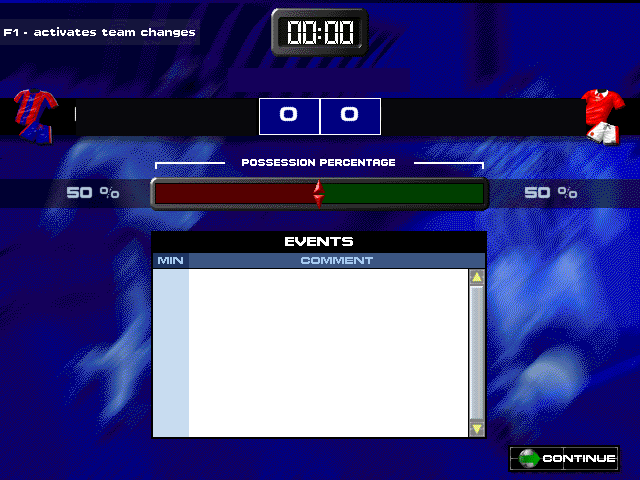
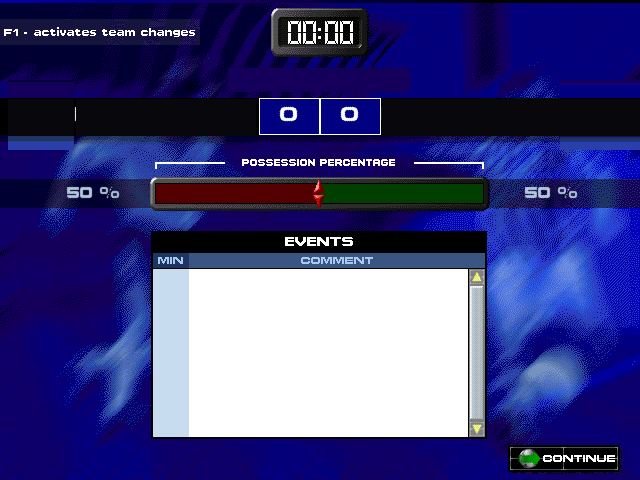
BRIEF fixes: feed geometry, live possession, kit blank+redraw (charter #7)
#7a Feed truncation: the EVENTS draw rect was x312..470 (right third only), so a
goal line clipped its club ("Goal by Salako" -> "Goal by Milose"). Corrected to the
real panel x153..467 (MIN col right-aligned x190, COMMENT left x199, clip to x467);
goal text -> pure red (frame 67). Full "Goal by <scorer> (<club>)" now fits.

#7b Possession: the byte-exact stat engine already accumulates the real POSS counters
(Pm98StatMatch 0x64/0x804, FUN_00450510) -- it was a documented "gap" only because
they were never surfaced. Added Pm98StatMatch.possession(), threaded [home,away]
through MatchSim -> Career -> Main -> MatchScreen. The BRIEF bar now draws the real
split (home/(home+away)), eased 50/50->final over the clock, with the diamond pointer
and live "NN %" labels (baked "50 %" erased by the same per-row median blank). Legacy
path (no counters) stays the honest neutral 50/50.

#7c Kits: the BRIEF chrome had frame-073's kits BAKED IN and un-blanked, so the wrong
club's kit showed around the redrawn one (the "Villa red" parity bug). Blanked both
kit regions in the bake (build_match_flow + inherited by brief_ft/brief_running via
build_prematch), and sized the screen's escudo redraw to the frame-64 bounds
(scale 1.32, anchor y57). Villa claret home + Bolton white away now render correctly.

Verified by GL render vs parity orig/64+67 (app/tests/shot_brief_verify.gd) +
test_match_screen / matchsim / commentary / career all green. Rich shot/save feed
[…]

Changed region(s): [[0.0, 0.1562, 0.125, 0.3125], [0.875, 0.1562, 1.0, 0.3125]]

diff --git a/tools/re/build_match_flow_chrome_from_frames.py b/tools/re/build_match_flow_chrome_from_frames.py
@@ -370,6 +370,17 @@ def _bake_brief() -> dict:
     # clear the "KICK OFF" half/state label (dynamic, below the clock) to the blue bg
     bg = np.median(f[BR_STATE_Y[0]:BR_STATE_Y[1], 200:236].reshape(-1, 3), axis=0).astype("uint8")
     a[BR_STATE_Y[0]:BR_STATE_Y[1], 228:410] = bg
+    # clear the frame-073 KITS (dynamic per match): the screen redraws the fixture's own
+    # escudos, so the baked home/away kits MUST go -- else the wrong club's kit shows
+    # around the redrawn one (the "Villa red" parity bug, orig/64 vs app). Reconstruct
+    # the blue chrome above/below + the black scoreband beneath, per side from an adjacent
+    # glyph-free span (same per-row median technique as the possession/stadium blanks).
+    # generous bboxes: the frame-073 kits run x8..72 / x560..640, y89..149 (wider than
+    # the BR_KIT_* label bboxes), so cover their full extent or a red sliver survives.
+    for kx0, kx1, sx0, sx1 in [(8, 74, 90, 150), (560, 640, 480, 556)]:
+        _rowmed(a, f, 80, BR_BAND_Y[0], kx0, kx1, sx0, sx1)     # blue chrome above band
+        a[BR_BAND_Y[0]:BR_BAND_Y[1], kx0:kx1] = black           # black scoreband
+        _rowmed(a, f, BR_BAND_Y[1], 150, kx0, kx1, sx0, sx1)    # blue chrome below band
     save(a, "brief.png")
     return {
         "binding_frame": F_BRIEF.name,

diff --git a/tools/re/build_prematch_roll_from_frames.py b/tools/re/build_prematch_roll_from_frames.py
@@ -361,7 +361,7 @@ def main() -> None:
     diff = np.abs(ftimg - ft).sum(axis=2) > 40
     data_zones = [
         (258, 18, 114, 82),  # clock LCD + digits
-        (0, 60, 640, 80),  # state label + scoreline band + kits (y60..139)
+        (0, 60, 640, 92),  # state label + scoreline band + kits (y60..151, kits run to y149)
         (14, 180, 612, 30),  # possession row (pcts + bar arrow)
         (150, 230, 340, 210),  # events panel (header+body+scroll)
         (0, 0, 210, 16),  # F1 banner top-left antialias fringe

diff --git a/docs/re/match_flow_re.md b/docs/re/match_flow_re.md
@@ -43,10 +43,17 @@ only the dynamic club NAMES + the state label cleared (`brief.png`). The screen 
 
 - **Clock** LCD box x258..372 y30..100 (digit over-painted; proman18 approximates the
   original 7-seg face — GAP), **half/state label** below (KICK OFF / FIRST HALF / …).
-- **Scoreline** on the black band (y99..136): kits at the ends (KIT_H 8..70 / KIT_A 585..638),
+- **Scoreline** on the black band (y99..136): the fixture escudos at the ends (home
+  x14..55 / away x585..626, the escudo drawn to the frame-64 kit bounds — scale 1.32,
+  anchor y57 lands the opaque y24..63 at y89..142). The frame-073 kits are BLANKED in the
+  bake (build_match_flow: home x8..74 / away x560..640, y80..150) so the wrong club's kit
+  no longer shows around the redrawn one (the "Villa red" parity bug, charter #7c).
   home name x76..256, score boxes x258..320 + x322..380, away name x382..586.
-- **POSSESSION** bar — GAP (see below), left the frame's neutral 50/50.
-- **EVENTS** white body x312..470 y268..432, MIN col x316, COMMENT x356, clipped to the panel.
+- **POSSESSION** bar — LIVE (charter #7b): the real engine POSS counters, see below.
+- **EVENTS** white body **x153..467** y269..436 (light-grey MIN col x153..198 + white
+  COMMENT col x199..467, scrollbar x470..476): MIN right-aligned at x190, COMMENT
+  left-aligned at x199 clipped to the panel. (The old x312..470 rect drew only the right
+  third, clipping the goal line's club — "Goal by Salako" → "Goal by Milose", charter #7a.)
 - In-match buttons: LINE-UP(495,227) / TACTICS(495,283) / MAN-TO-MAN(495,339) /
   STATISTICS ×2 (495,393)+(14,393) — chrome, open no sub-screen on this path; KICK OFF
   (262,442) advances to full time / CONTINUE, EXIT(508,442) leaves.
@@ -83,7 +90,7 @@ goal events** — `{minute, side(credited 0/1), scorer, scorer_side, own_goal}` 
 | BRIEF feed: Shot / Save / Run / Cross / Header / Injury | positional engine only | **GAP** — omitted |
 | BOOKINGS (name+min) | positional engine only | **GAP** — empty chrome |
 | TOTAL FOULS | positional engine only | **GAP** — blank |
-| POSSESSION % | not produced | **GAP** — neutral empty bar |
+| POSSESSION % (BRIEF bar) | `Pm98StatMatch.possession` — the engine's own `POSS` (0x64/0x804) counters, `_stats` FUN_00450510 | **REAL** — home/(home+away); the BRIEF bar eases 50/50→final over the clock (final split is engine-exact; the per-minute path is a display ease, the instant engine having no per-minute stream) |
 | ATTENDANCE MONEY / SPONSOR BOARDS / SPONSORSHIP MONEY | per-match money not modelled | **GAP** — blank |
 | MAN OF THE MATCH | not produced | **GAP** — blank panel |
 
@@ -162,8 +169,12 @@ resolved):
   hub still Week 1 (the abandoned week not saved).
 - Remaining flags: clock digits stay the proman18 approximation (7-seg face
   un-extracted); the original deploys the hub TOP DROPDOWN BAR behind the
-  matchday modal (ours stays closed); BRIEF possession/feed richness = charter
-  #7 / M5 gap; roll corner kits = the un-extracted hi-res kit render family.
+  matchday modal (ours stays closed). **Charter #7 APPLIED 2026-07-17: BRIEF feed
+  geometry (#7a), LIVE possession from the engine POSS counters (#7b), and the
+  frame-073-kit blank + fixture-escudo redraw (#7c) are all done.** The remaining
+  feed *richness* (shot/save/cleared lines between the goals) is still the M5
+  positional-engine gap — the instant engine produces goals only, never fabricated.
+  Roll corner kits = the un-extracted hi-res kit render family.
 
 ## Charter #6 APPLIED — 2026-07-17 (RESULT read-out repairs)
 
@@ -199,8 +210,10 @@ The HALF/FULL TIME read-out is repaired against the LIVE witness run
 - **#6f HALF TIME read-out is CONTINUE-gated** (`MatchResultScreen._on_input`, both
   modes): the HT read-out is NOT a tap-anywhere dismiss -- it carries a real CONTINUE
   button + the STATISTICS/TACTICS/LINE-UP chrome (baked, inert like the BRIEF doors).
-- **Honest gaps kept (never fabricated)**: POSSESSION %, TOTAL FOULS, MAN OF THE
-  MATCH name + mug -- the instant-result stat engine produces goals only; the
+- **Honest gaps kept (never fabricated)**: POSSESSION % (the RESULT read-out's own
+  counter, distinct from the now-live BRIEF POSS bar — witness §: 57/43 vs 55/45 same
+  match), TOTAL FOULS, MAN OF THE MATCH name + mug -- the instant-result stat engine
+  produces goals only (plus the BRIEF possession counters); the
   positional match-rating stream those need is test-only (M5). The pill / header /
   generic sprite chrome renders; the values stay absent.
 
